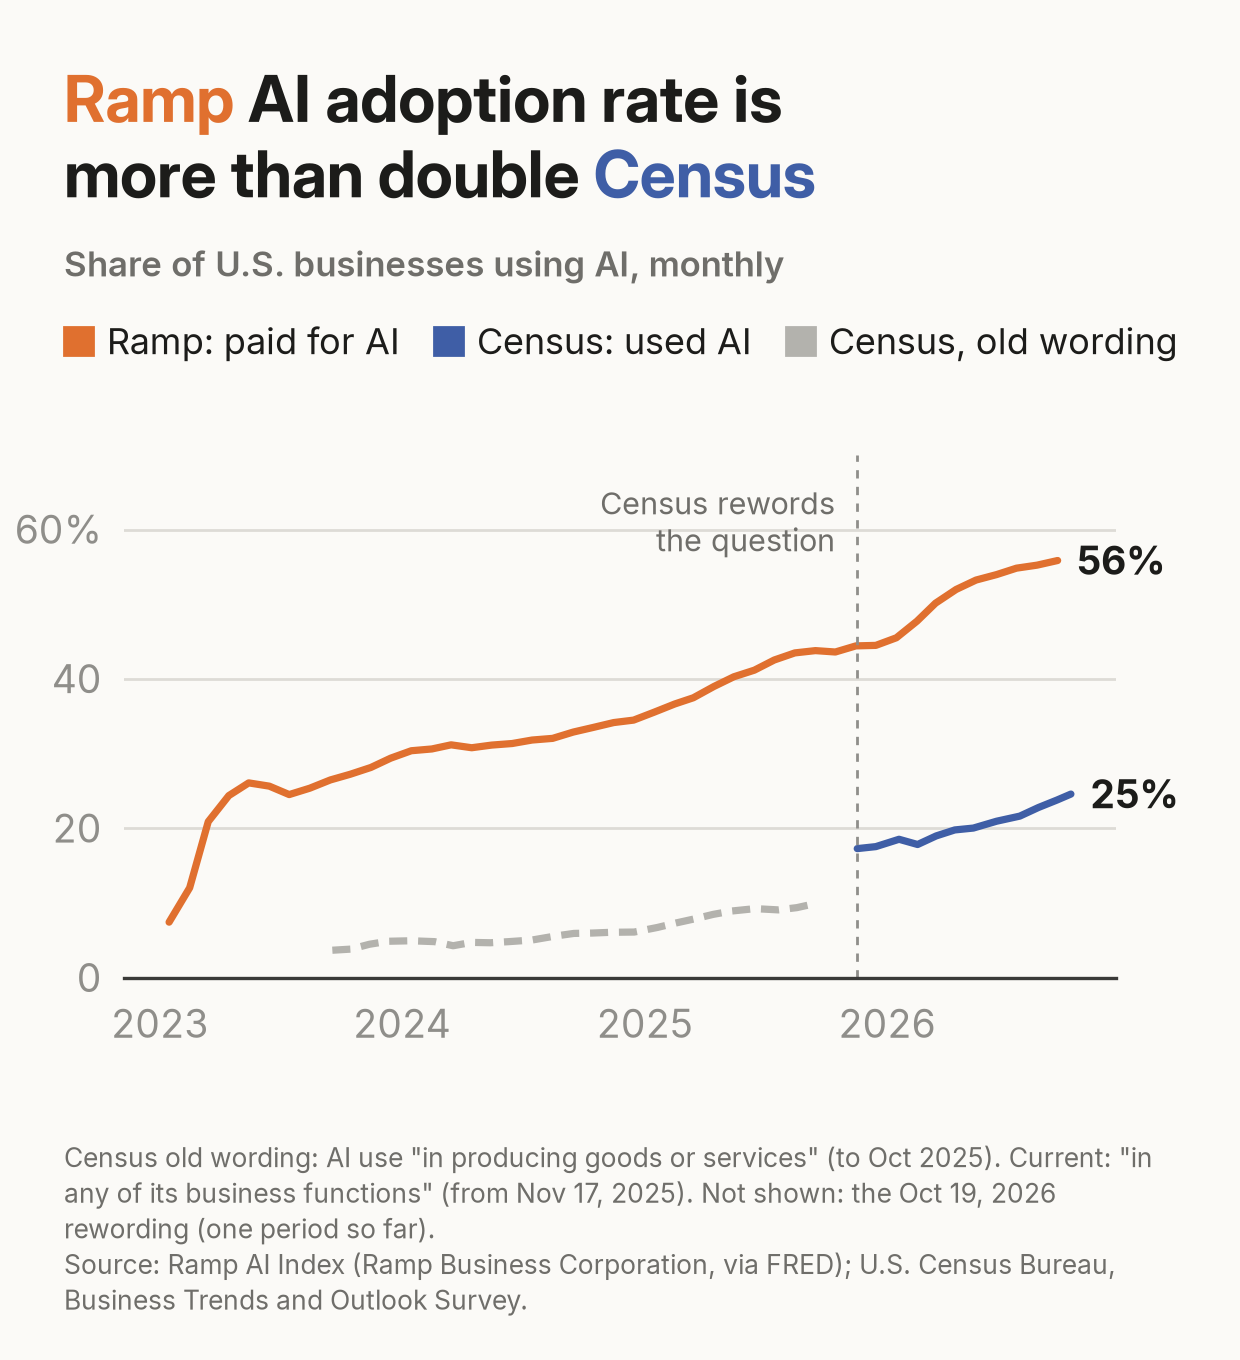
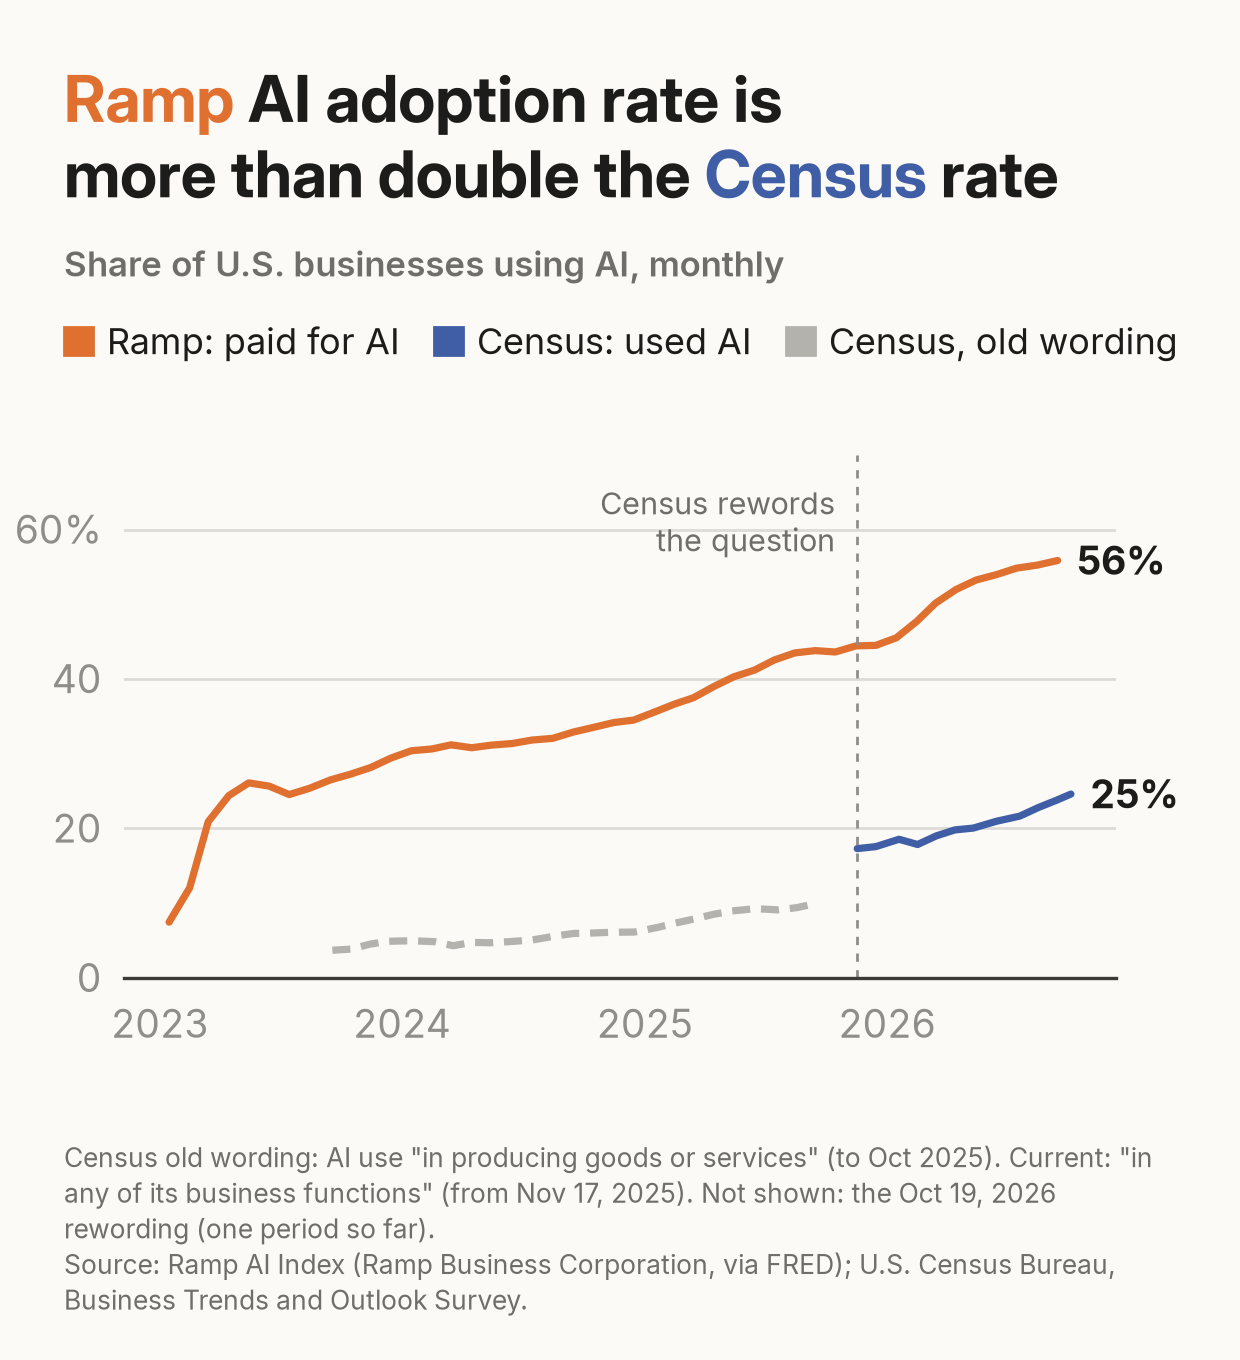
Chart 1 headline: "...more than double the Census rate"

Changed region(s): [[0.4597, 0.0926, 0.8581, 0.1544]]

diff --git a/analysis.py b/analysis.py
@@ -52,7 +52,7 @@ def chart_gap(tidy, bi):
     ov = pd.concat([ov, cen], ignore_index=True)
     ex = Exhibit(height=6.8)
     ex.title([[("Ramp", ORANGE), (" AI adoption rate is", INK)],
-              [("more than double", INK), (" Census", NAVY)]])
+              [("more than double the ", INK), ("Census", NAVY), (" rate", INK)]])
     ex.subtitle("Share of U.S. businesses using AI, monthly")
     ex.legend([("Ramp: paid for AI", ORANGE), ("Census: used AI", NAVY),
                ("Census, old wording", GRAY)])
